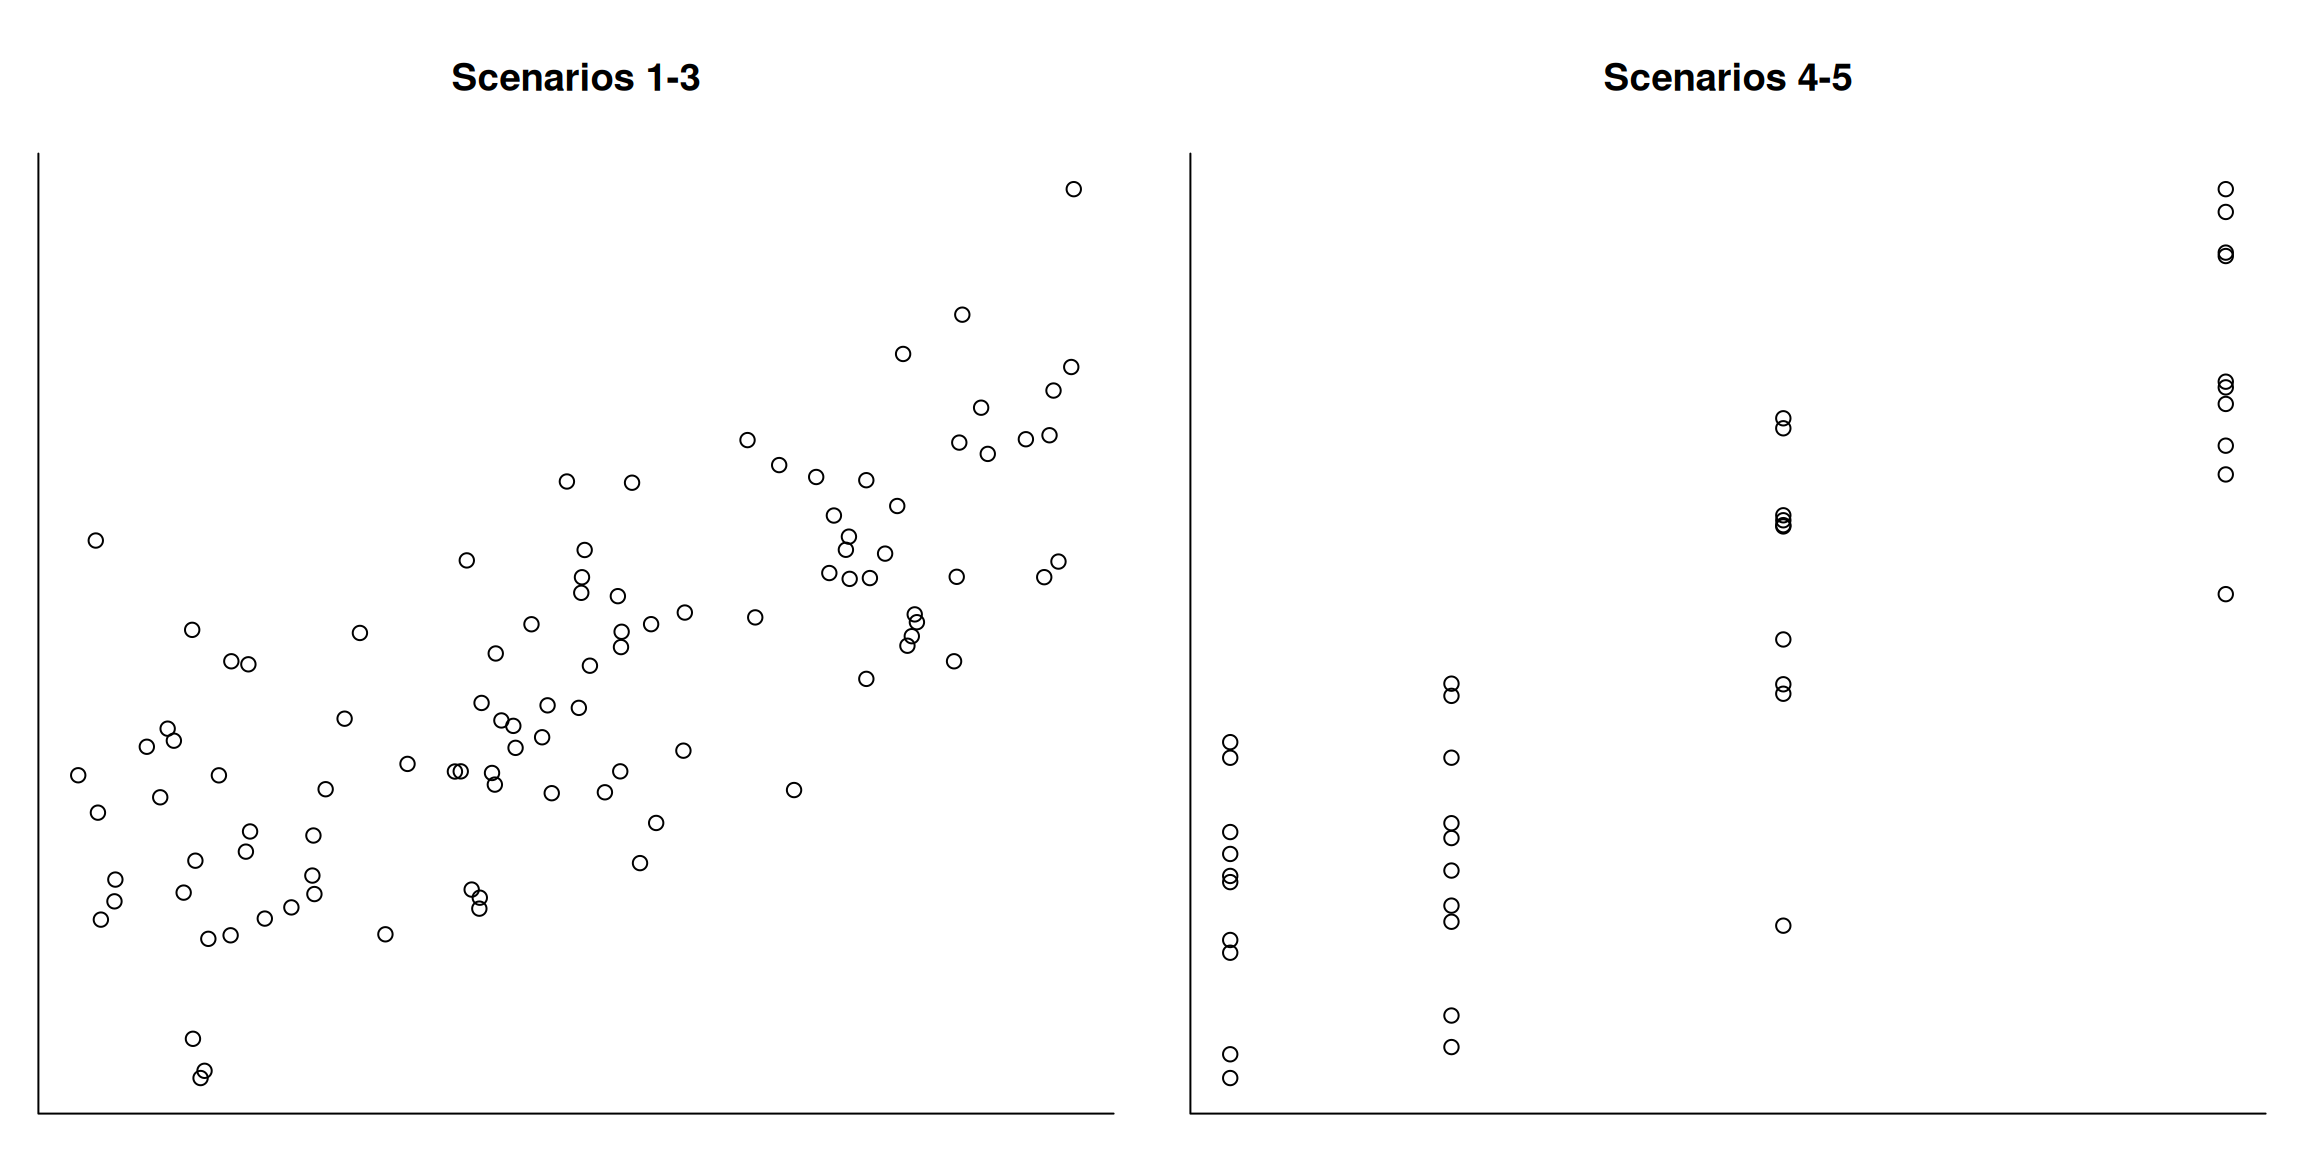
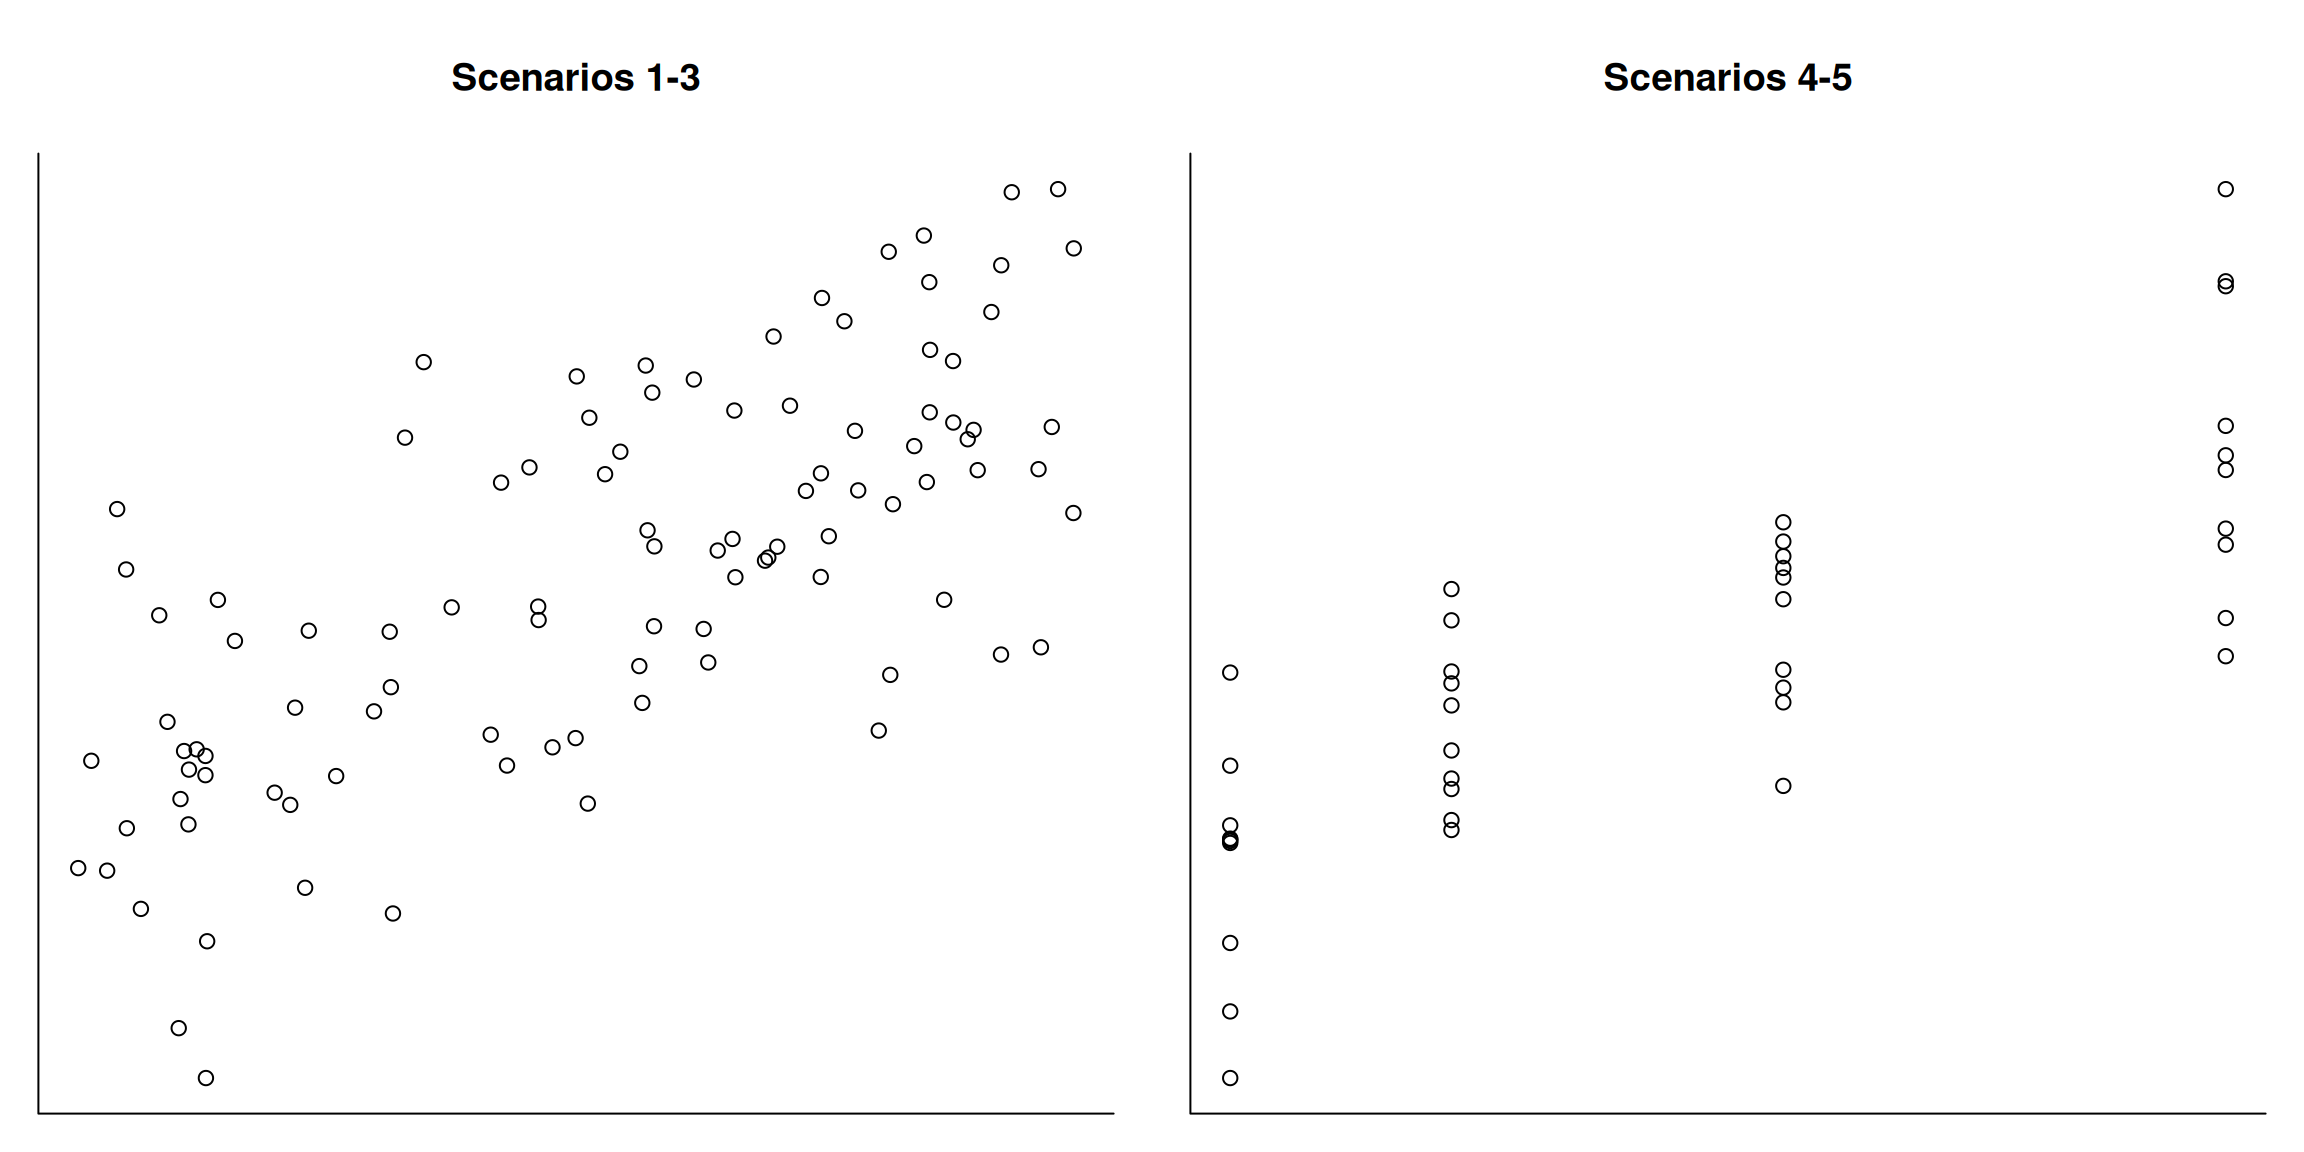
GitHub Actions commit.

diff --git a/Modules/02-EstimationBasics.html b/Modules/02-EstimationBasics.html
@@ -125,12 +125,110 @@ window.Quarto = {
 <link rel="stylesheet" href="../style.css">
 </head>
 
-<body class="quarto-light">
+<body class="nav-sidebar docked quarto-light">
 
 <div id="quarto-search-results"></div>
+  <header id="quarto-header" class="headroom fixed-top">
+  <nav class="quarto-secondary-nav">
+    <div class="container-fluid d-flex">
+      <button type="button" class="quarto-btn-toggle btn" data-bs-toggle="collapse" role="button" data-bs-target=".quarto-sidebar-collapse-item" aria-controls="quarto-sidebar" aria-expanded="false" aria-label="Toggle sidebar navigation" onclick="if (window.quartoToggleHeadroom) { window.quartoToggleHeadroom(); }">
+        <i class="bi bi-layout-text-sidebar-reverse"></i>
+      </button>
+        <nav class="quarto-page-breadcrumbs" aria-label="breadcrumb"><ol class="breadcrumb"><li class="breadcrumb-item"><a href="../Modules/00-OverviewIntro.html">Modules</a></li><li class="breadcrumb-item"><a href="../Modules/02-EstimationBasics.html">Estimation</a></li></ol></nav>
+        <a class="flex-grow-1" role="navigation" data-bs-toggle="collapse" data-bs-target=".quarto-sidebar-collapse-item" aria-controls="quarto-sidebar" aria-expanded="false" aria-label="Toggle sidebar navigation" onclick="if (window.quartoToggleHeadroom) { window.quartoToggleHeadroom(); }">      
+        </a>
+      <button type="button" class="btn quarto-search-button" aria-label="Search" onclick="window.quartoOpenSearch();">
+        <i class="bi bi-search"></i>
+      </button>
+    </div>
+  </nav>
+</header>
 <!-- content -->
 <div id="quarto-content" class="quarto-container page-columns page-rows-contents page-layout-article">
 <!-- sidebar -->
+  <nav id="quarto-sidebar" class="sidebar collapse collapse-horizontal quarto-sidebar-collapse-item sidebar-navigation docked overflow-auto">
+    <div class="pt-lg-2 mt-2 text-left sidebar-header sidebar-header-stacked">
+      <a href="../index.html" class="sidebar-logo-link">
+      <img src="../assets/stat_bear.png" alt="UC Berkeley Statistics logo" class="sidebar-logo light-content py-0 d-lg-inline d-none">
+      <img src="../assets/stat_bear.png" alt="UC Berkeley Statistics logo" class="sidebar-logo dark-content py-0 d-lg-inline d-none">
+      </a>
+    <div class="sidebar-title mb-0 py-0">
+      <a href="../">Stat 135</a> 
+        <div class="sidebar-tools-main">
+    <a href="{{< var site-url >}}" title="" class="quarto-navigation-tool px-1" aria-label="GitHub"><i class="bi bi-github"></i></a>
+</div>
+    </div>
+      </div>
+        <div class="mt-2 flex-shrink-0 align-items-center">
+        <div class="sidebar-search">
+        <div id="quarto-search" class="" title="Search"></div>
+        </div>
+        </div>
+    <div class="sidebar-menu-container"> 
+    <ul class="list-unstyled mt-1">
+        <li class="sidebar-item">
+  <div class="sidebar-item-container"> 
+  <a href="../index.html" class="sidebar-item-text sidebar-link">
+ <span class="menu-text">Home / Schedule</span></a>
+  </div>
+</li>
+        <li class="sidebar-item">
+  <div class="sidebar-item-container"> 
+  <a href="../syllabus.html" class="sidebar-item-text sidebar-link">
+ <span class="menu-text">Syllabus</span></a>
+  </div>
+</li>
+        <li class="sidebar-item">
+  <div class="sidebar-item-container"> 
+  <a href="../staff.html" class="sidebar-item-text sidebar-link">
+ <span class="menu-text">Staff</span></a>
+  </div>
+</li>
+        <li class="sidebar-item">
+  <div class="sidebar-item-container"> 
+  <a href="../calendar.html" class="sidebar-item-text sidebar-link">
+ <span class="menu-text">Calendar</span></a>
+  </div>
+</li>
+        <li class="sidebar-item sidebar-item-section">
+      <div class="sidebar-item-container"> 
+            <a class="sidebar-item-text sidebar-link text-start" data-bs-toggle="collapse" data-bs-target="#quarto-sidebar-section-1" role="navigation" aria-expanded="true">
+ <span class="menu-text">Modules</span></a>
+          <a class="sidebar-item-toggle text-start" data-bs-toggle="collapse" data-bs-target="#quarto-sidebar-section-1" role="navigation" aria-expanded="true" aria-label="Toggle section">
+            <i class="bi bi-chevron-right ms-2"></i>
+          </a> 
+      </div>
+      <ul id="quarto-sidebar-section-1" class="collapse list-unstyled sidebar-section depth1 show">  
+          <li class="sidebar-item">
+  <div class="sidebar-item-container"> 
+  <a href="../Modules/00-OverviewIntro.html" class="sidebar-item-text sidebar-link">
+ <span class="menu-text">Introduction</span></a>
+  </div>
+</li>
+          <li class="sidebar-item">
+  <div class="sidebar-item-container"> 
+  <a href="../Modules/01-ThinkProb.html" class="sidebar-item-text sidebar-link">
+ <span class="menu-text">Thinking probabilistically about data</span></a>
+  </div>
+</li>
+          <li class="sidebar-item">
+  <div class="sidebar-item-container"> 
+  <a href="../Modules/02-EstimationBasics.html" class="sidebar-item-text sidebar-link active">
+ <span class="menu-text">Estimation</span></a>
+  </div>
+</li>
+      </ul>
+  </li>
+        <li class="sidebar-item">
+  <div class="sidebar-item-container"> 
+  <a href="../license.html" class="sidebar-item-text sidebar-link">
+ <span class="menu-text">License</span></a>
+  </div>
+</li>
+    </ul>
+    </div>
+</nav>
+<div id="quarto-sidebar-glass" class="quarto-sidebar-collapse-item" data-bs-toggle="collapse" data-bs-target=".quarto-sidebar-collapse-item"></div>
 <!-- margin-sidebar -->
     <div id="quarto-margin-sidebar" class="sidebar margin-sidebar">
         <nav id="TOC" role="doc-toc" class="toc-active">
@@ -167,7 +265,7 @@ window.Quarto = {
 </nav>
     </div>
 <!-- main -->
-<main class="content" id="quarto-document-content"><header id="title-block-header" class="quarto-title-block"></header>
+<main class="content" id="quarto-document-content"><header id="title-block-header" class="quarto-title-block"><nav class="quarto-page-breadcrumbs quarto-title-breadcrumbs d-none d-lg-block" aria-label="breadcrumb"><ol class="breadcrumb"><li class="breadcrumb-item"><a href="../Modules/00-OverviewIntro.html">Modules</a></li><li class="breadcrumb-item"><a href="../Modules/02-EstimationBasics.html">Estimation</a></li></ol></nav></header>
 
 
 

diff --git a/index.html b/index.html
@@ -251,6 +251,12 @@ window.Quarto = {
  <span class="menu-text">Thinking probabilistically about data</span></a>
   </div>
 </li>
+          <li class="sidebar-item">
+  <div class="sidebar-item-container"> 
+  <a href="./Modules/02-EstimationBasics.html" class="sidebar-item-text sidebar-link">
+ <span class="menu-text">Estimation</span></a>
+  </div>
+</li>
       </ul>
   </li>
         <li class="sidebar-item">
@@ -399,6 +405,47 @@ a.unpublished {
                   
                   
                     <a href="Materials/diagnostic.pdf">Diagnostic Test</a>
+                  
+                  
+                </td>
+           
+                
+           </tr>
+        
+   
+
+        
+
+           <tr>
+           
+           
+           
+           
+           <th id="th-schedule" scope="row" rowspan="2">Aug 28:</th>
+           
+           
+              <td id="td-schedule"><strong class="label label-Module">Module 1</strong> <a href="./Modules/01-ThinkProb.html" target="_blank">Thinking probabilistically about data</a></td>
+           
+           
+                <td></td>
+           
+                
+           </tr>
+        
+
+           <tr>
+           
+           
+           
+           
+           
+              <td id="td-schedule"><strong class="label label-Module">Module 2</strong> <a href="./Modules/02-EstimationBasics.html" target="_blank">Estimation</a></td>
+           
+           
+                <td id="td-schedule">
+                
+                  
+                    <a href="https://epurdom.github.io/Stat131A/RSupport/Lab00.html">Intro R Lab</a>
                   
                   
                 </td>

diff --git a/Modules/00-OverviewIntro.html b/Modules/00-OverviewIntro.html
@@ -163,6 +163,12 @@ ul.task-list li input[type="checkbox"] {
  <span class="menu-text">Thinking probabilistically about data</span></a>
   </div>
 </li>
+          <li class="sidebar-item">
+  <div class="sidebar-item-container"> 
+  <a href="../Modules/02-EstimationBasics.html" class="sidebar-item-text sidebar-link">
+ <span class="menu-text">Estimation</span></a>
+  </div>
+</li>
       </ul>
   </li>
         <li class="sidebar-item">

diff --git a/calendar.html b/calendar.html
@@ -163,6 +163,12 @@ ul.task-list li input[type="checkbox"] {
  <span class="menu-text">Thinking probabilistically about data</span></a>
   </div>
 </li>
+          <li class="sidebar-item">
+  <div class="sidebar-item-container"> 
+  <a href="./Modules/02-EstimationBasics.html" class="sidebar-item-text sidebar-link">
+ <span class="menu-text">Estimation</span></a>
+  </div>
+</li>
       </ul>
   </li>
         <li class="sidebar-item">

diff --git a/license.html b/license.html
@@ -163,6 +163,12 @@ ul.task-list li input[type="checkbox"] {
  <span class="menu-text">Thinking probabilistically about data</span></a>
   </div>
 </li>
+          <li class="sidebar-item">
+  <div class="sidebar-item-container"> 
+  <a href="./Modules/02-EstimationBasics.html" class="sidebar-item-text sidebar-link">
+ <span class="menu-text">Estimation</span></a>
+  </div>
+</li>
       </ul>
   </li>
         <li class="sidebar-item">

diff --git a/staff.html b/staff.html
@@ -163,6 +163,12 @@ ul.task-list li input[type="checkbox"] {
  <span class="menu-text">Thinking probabilistically about data</span></a>
   </div>
 </li>
+          <li class="sidebar-item">
+  <div class="sidebar-item-container"> 
+  <a href="./Modules/02-EstimationBasics.html" class="sidebar-item-text sidebar-link">
+ <span class="menu-text">Estimation</span></a>
+  </div>
+</li>
       </ul>
   </li>
         <li class="sidebar-item">

diff --git a/syllabus.html b/syllabus.html
@@ -163,6 +163,12 @@ ul.task-list li input[type="checkbox"] {
  <span class="menu-text">Thinking probabilistically about data</span></a>
   </div>
 </li>
+          <li class="sidebar-item">
+  <div class="sidebar-item-container"> 
+  <a href="./Modules/02-EstimationBasics.html" class="sidebar-item-text sidebar-link">
+ <span class="menu-text">Estimation</span></a>
+  </div>
+</li>
       </ul>
   </li>
         <li class="sidebar-item">

diff --git a/Modules/01-ThinkProb.html b/Modules/01-ThinkProb.html
@@ -211,6 +211,12 @@ window.Quarto = {
  <span class="menu-text">Thinking probabilistically about data</span></a>
   </div>
 </li>
+          <li class="sidebar-item">
+  <div class="sidebar-item-container"> 
+  <a href="../Modules/02-EstimationBasics.html" class="sidebar-item-text sidebar-link">
+ <span class="menu-text">Estimation</span></a>
+  </div>
+</li>
       </ul>
   </li>
         <li class="sidebar-item">
